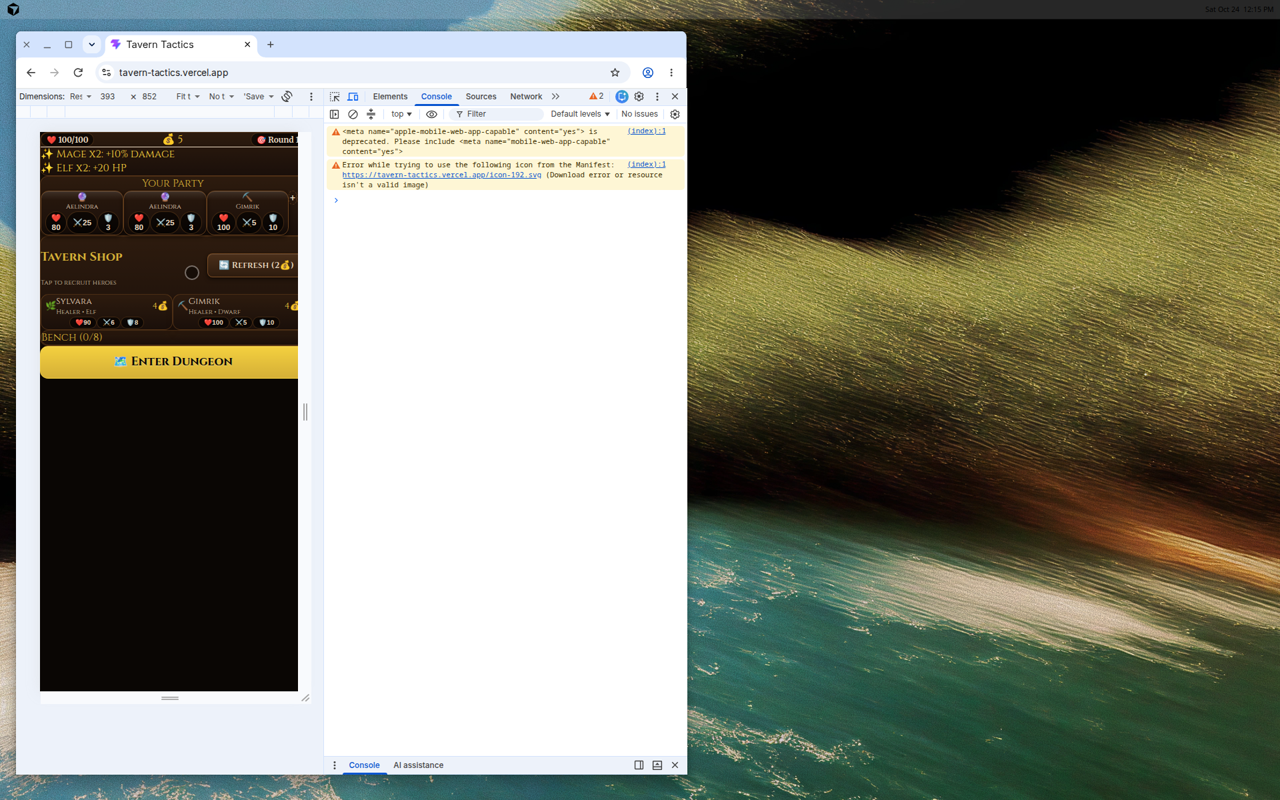
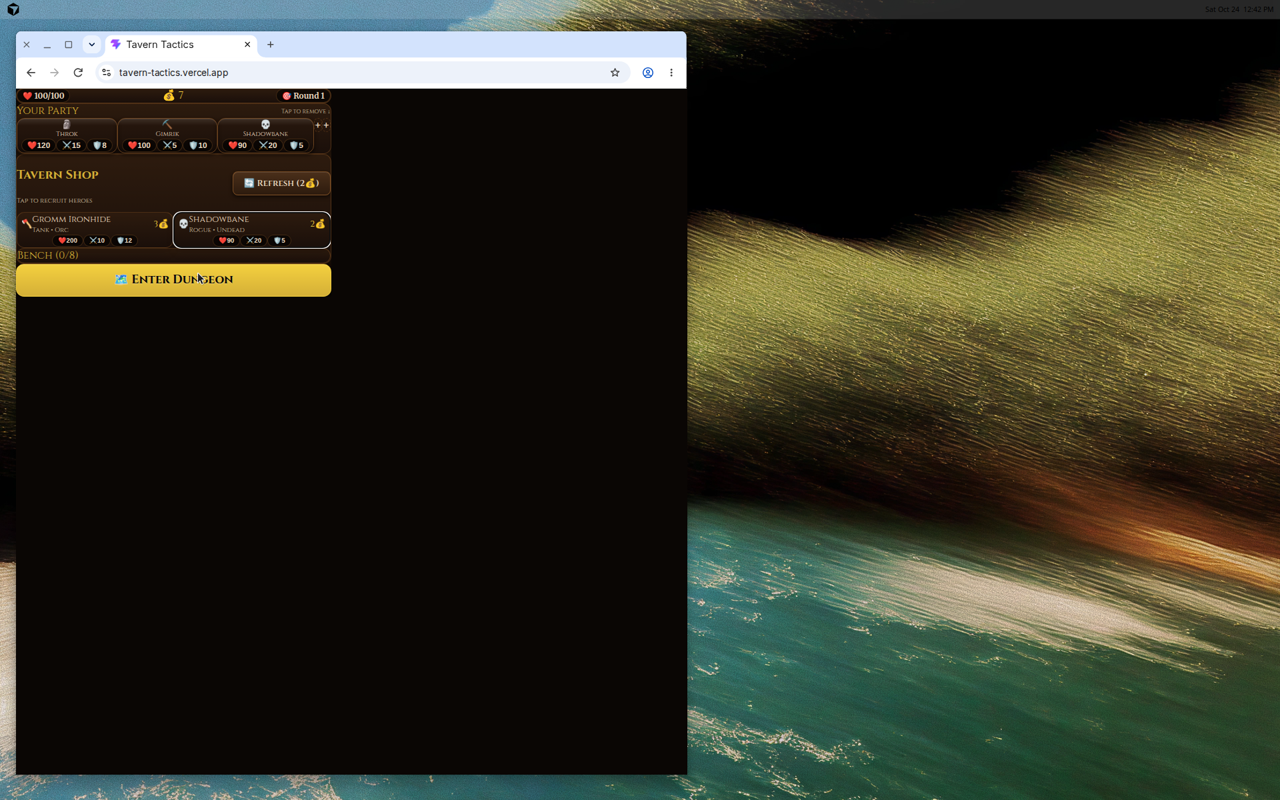
Critical fixes: full width and readable enemy text
WIDTH FIX:
- Added w-full to ALL screen components (was missing on Shop/Title/Victory/Defeat)
- Now properly fills 393px iPhone viewport with no black gaps
- MapScreen and CombatScreen already had w-full, standardized across all screens

ENEMY TEXT READABILITY:
- Changed 'ENEMIES' header from text-red-300 (tan/beige) to text-white
- Enemy names now font-black with ultra-strong text-shadow for visibility
- HP text increased to text-xs font-black with matching text-shadow
- HP bar border increased from border to border-2 with red-500/80
- HP bar background darkened from black/60 to black/80 for contrast
- Inline style text-shadow: '0 2px 8px rgba(0,0,0,0.9), 0 0 4px rgba(0,0,0,1)'
  ensures maximum readability on any background

TESTING:
- Width constraint removed from all screen wrappers
- Enemy card text now visible even on dark red combat backgrounds
- HP values clearly readable during combat
- All screens consistent with w-full directive

diff --git a/src/components/CombatScreen.tsx b/src/components/CombatScreen.tsx
@@ -181,7 +181,7 @@ export default function CombatScreen() {
     <div className="flex flex-col h-full w-full bg-gradient-to-b from-tavern-darkest to-red-950 safe-area-inset">
       {/* Enemy Area - Large Cards */}
       <div className="p-3 min-h-[30%] bg-red-950/40">
-        <div className="text-red-300 font-display font-semibold text-sm text-center mb-2">
+        <div className="text-white font-display font-semibold text-sm text-center mb-2">
           ENEMIES
         </div>
         <div className="flex justify-center gap-2">
@@ -200,18 +200,18 @@ export default function CombatScreen() {
                 `}
               >
                 <div className="text-5xl">{enemy.emoji}</div>
-                <div className="text-center w-full">
-                  <div className="text-white text-xs font-display font-bold mb-1 drop-shadow-lg">
+                <div className="text-center w-full space-y-1">
+                  <div className="text-white text-xs font-display font-black tracking-wide" style={{ textShadow: '0 2px 8px rgba(0,0,0,0.9), 0 0 4px rgba(0,0,0,1)' }}>
                     {enemy.name}
                   </div>
                   {/* HP Bar */}
-                  <div className="w-full bg-black/60 h-3 rounded-full overflow-hidden border border-red-600/50">
+                  <div className="w-full bg-black/80 h-3 rounded-full overflow-hidden border-2 border-red-500/80">
                     <div 
                       className="h-full bg-gradient-to-r from-red-600 to-red-400 transition-all duration-300"
                       style={{ width: `${Math.max(0, hpPercent)}%` }}
                     />
                   </div>
-                  <div className="text-[11px] text-white font-bold mt-1 drop-shadow-md">
+                  <div className="text-xs text-white font-black tracking-wide" style={{ textShadow: '0 2px 8px rgba(0,0,0,0.9), 0 0 4px rgba(0,0,0,1)' }}>
                     {Math.max(0, enemy.currentHealth)}/{enemy.stats.health} HP
                   </div>
                 </div>

diff --git a/src/components/VictoryScreen.tsx b/src/components/VictoryScreen.tsx
@@ -4,7 +4,7 @@ export default function VictoryScreen() {
   const { startNewRun } = useGame();
   
   return (
-    <div className="flex flex-col items-center justify-center h-full bg-gradient-to-b from-tavern-gold/20 via-tavern-dark to-tavern-darkest p-6 text-center safe-area-inset">
+    <div className="flex flex-col items-center justify-center h-full w-full bg-gradient-to-b from-tavern-gold/20 via-tavern-dark to-tavern-darkest p-6 text-center safe-area-inset">
       <div className="space-y-6 animate-slide-up">
         <div className="text-8xl mb-6 animate-bounce-subtle drop-shadow-2xl">🏆</div>
         

diff --git a/src/components/DefeatScreen.tsx b/src/components/DefeatScreen.tsx
@@ -4,7 +4,7 @@ export default function DefeatScreen() {
   const { startNewRun, state } = useGame();
   
   return (
-    <div className="flex flex-col items-center justify-center h-full bg-gradient-to-b from-red-950 via-tavern-dark to-tavern-darkest p-6 text-center safe-area-inset">
+    <div className="flex flex-col items-center justify-center h-full w-full bg-gradient-to-b from-red-950 via-tavern-dark to-tavern-darkest p-6 text-center safe-area-inset">
       <div className="space-y-6 animate-slide-up">
         <div className="text-8xl mb-6 opacity-80 grayscale">💀</div>
         

diff --git a/src/components/TitleScreen.tsx b/src/components/TitleScreen.tsx
@@ -4,7 +4,7 @@ interface TitleScreenProps {
 
 export default function TitleScreen({ onStart }: TitleScreenProps) {
   return (
-    <div className="flex flex-col h-full bg-gradient-to-b from-tavern-darkest via-tavern-dark to-tavern-wood p-safe">
+    <div className="flex flex-col h-full w-full bg-gradient-to-b from-tavern-darkest via-tavern-dark to-tavern-wood p-safe">
       {/* Decorative top bar */}
       <div className="h-1 bg-gradient-to-r from-transparent via-tavern-gold to-transparent" />
       

diff --git a/src/components/ShopScreen.tsx b/src/components/ShopScreen.tsx
@@ -32,7 +32,7 @@ export default function ShopScreen() {
   };
   
   return (
-    <div className="flex flex-col h-full bg-gradient-to-b from-tavern-dark via-tavern-wood to-tavern-dark safe-area-inset">
+    <div className="flex flex-col h-full w-full bg-gradient-to-b from-tavern-dark via-tavern-wood to-tavern-dark safe-area-inset">
       {/* Top Stats Bar */}
       <div className="panel m-2 p-3 space-y-2">
         <div className="flex justify-between items-center text-tavern-parchment">
